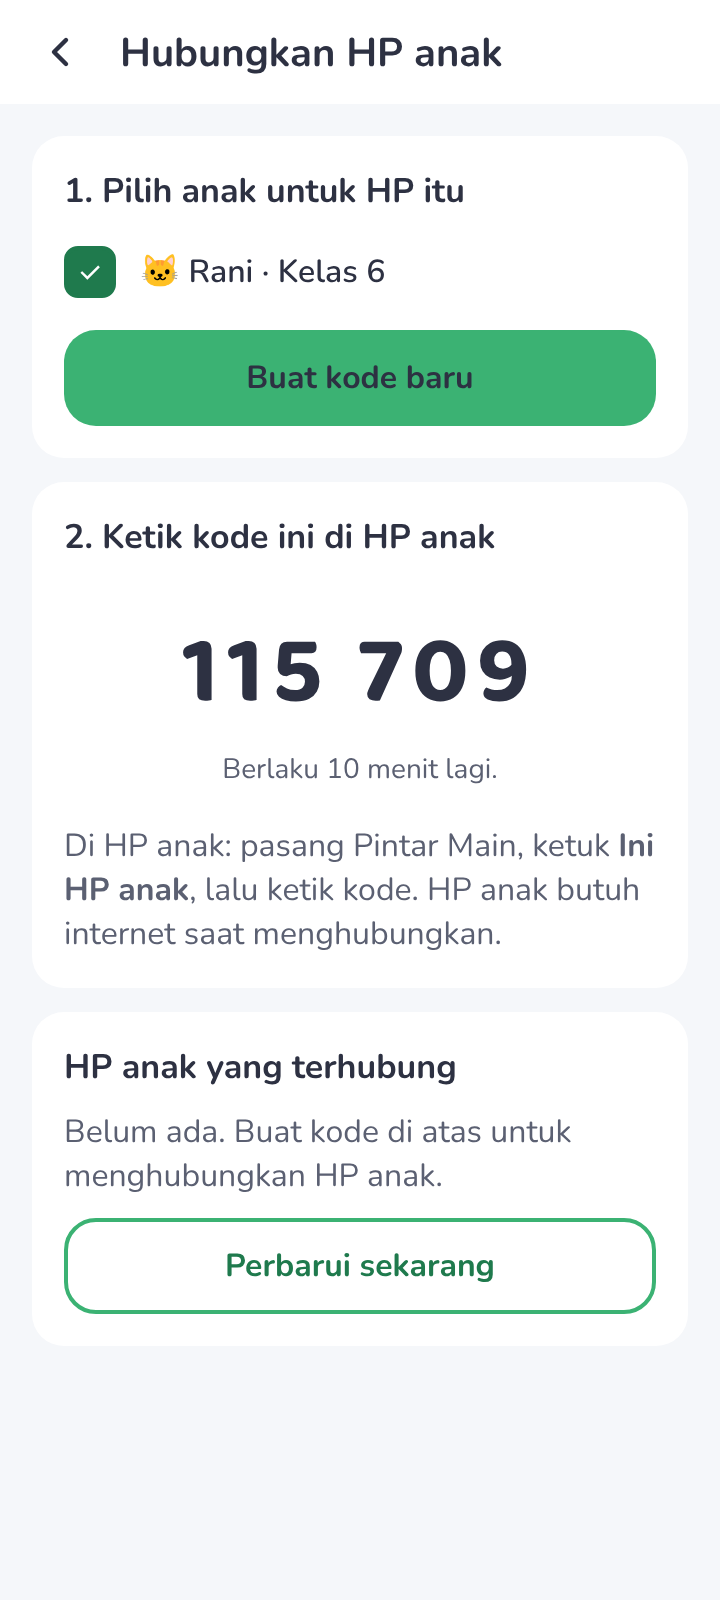
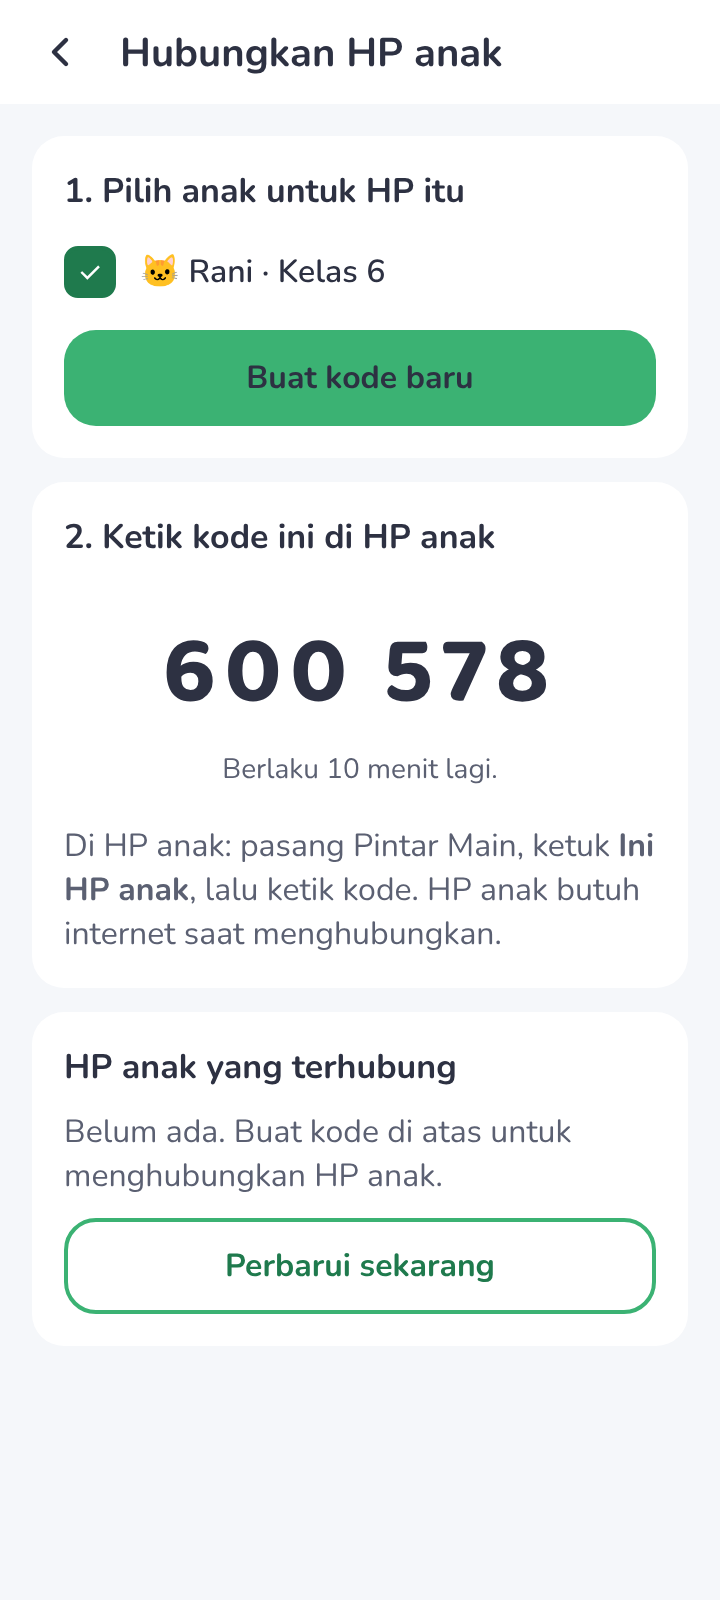
Tangkapan layar uji hubungkan HP anak dan catatan kemajuan
Claude-Session: https://claude.ai/code/session_013pN4LYo47QHLYpLiF3rPAb

Changed region(s): [[0.2139, 0.375, 0.7639, 0.4375]]

diff --git a/KEMAJUAN.md b/KEMAJUAN.md
@@ -17,12 +17,13 @@ Sesi baru: baca berkas ini, `KEPUTUSAN-PEMBANGUNAN.md`, dan `git log`, lalu lanj
 | 10 Uji menyeluruh | Selesai | `docs/BANDING-DESAIN.md`, `docs/LAPORAN-PEMERIKSAAN.md` |
 | 11 APK | Selesai | Bangun APK hijau, artifact `pintar-main-apk`. Expo Go dilewati (belum ada `EXPO_TOKEN`) |
 | 12 Game tambahan | Selesai (30 Okt) | Susun Kubus dipermudah; 4 game baru berjenjang level 1–5 |
+| 13 Hubungkan HP anak | Selesai (31 Okt), perlu pasang SQL | Kode 6 angka, sinkron dua arah, HP anak tanpa PIN. Pasang `20261030000000_hubungkan_hp_anak.sql` dan nyalakan Allow anonymous sign-ins. Lihat `docs/CARA-MENYAMBUNG-SUPABASE.md` |
 
 ## Berikutnya
 
 1. Keputusan Acut 29 Okt sudah diterapkan (`docs/rancangan/keputusan.md` bagian K).
 2. Terapkan hasil pemeriksaan guru (`docs/DAFTAR-PERIKSA-GURU.md`). Untuk TKA: perbaiki bahan, lalu jalankan `npm run impor-tka`.
-3. Uji masuk orang tua dan pengiriman data dari HP dengan APK mode Supabase.
+3. Pasang SQL hubungkan HP anak di Supabase, lalu uji dua HP sungguhan (orang tua dan anak).
 4. Lanjut ke kelas 1–5.
 
 **Perintah untuk melanjutkan:** "Lanjutkan pembangunan dari KEMAJUAN.md."
